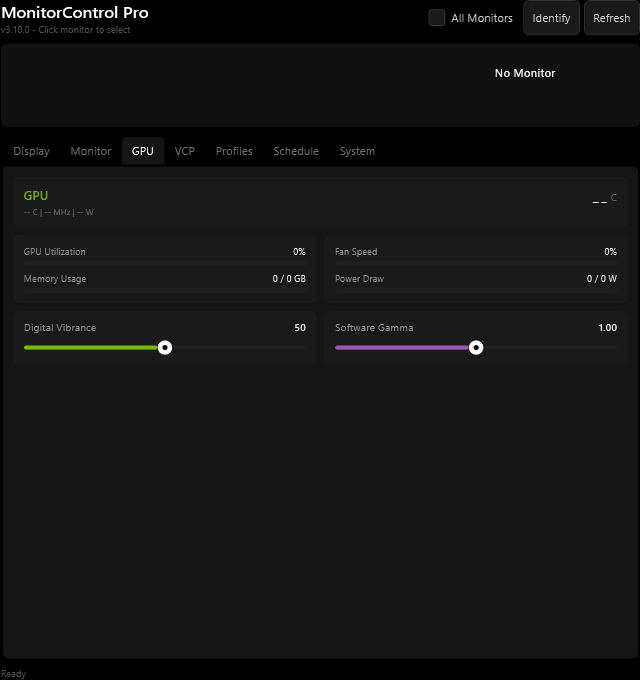
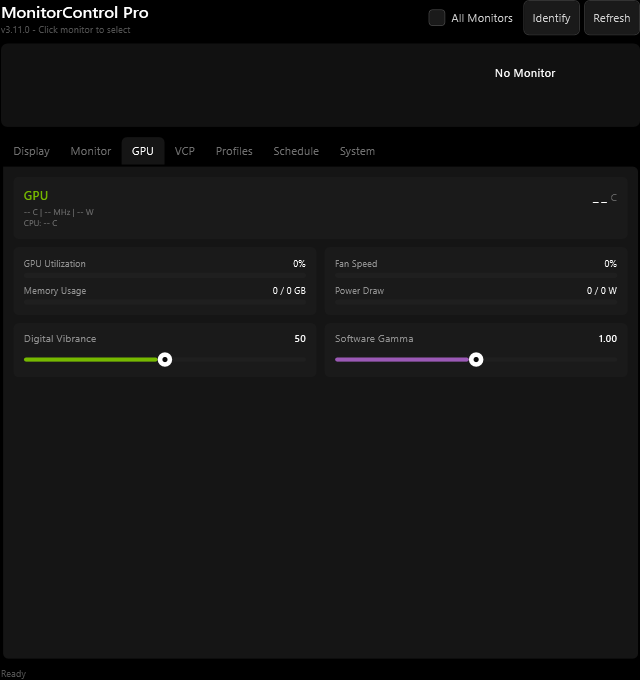
feat: add cpu temperature monitoring

diff --git a/README.md b/README.md
@@ -1,7 +1,7 @@
 # MonitorControl Pro
 
 <p align="center">
-  <img src="https://img.shields.io/badge/Version-v3.10.0-brightgreen" alt="Version v3.10.0">
+  <img src="https://img.shields.io/badge/Version-v3.11.0-brightgreen" alt="Version v3.11.0">
   <img src="https://img.shields.io/badge/PowerShell-5.1+-blue?logo=powershell" alt="PowerShell 5.1+">
   <img src="https://img.shields.io/badge/Windows-10%2F11-0078D6?logo=windows" alt="Windows 10/11">
   <img src="https://img.shields.io/badge/DDC%2FCI-Supported-green" alt="DDC/CI">
@@ -53,6 +53,7 @@ A comprehensive Windows GUI utility for controlling monitor settings via DDC/CI 
 - Power draw monitoring
 - Digital vibrance slider using NVAPI DVC where supported
 - AMD Radeon temperature, utilization, engine/memory clocks, and fan percent via ADL where supported by the installed driver
+- CPU package/core temperature via LibreHardwareMonitorLib or OpenHardwareMonitorLib when either library is installed or placed next to the script
 
 ## Requirements
 
@@ -60,6 +61,7 @@ A comprehensive Windows GUI utility for controlling monitor settings via DDC/CI 
 - **PowerShell 5.1+** (included with Windows)
 - **DDC/CI Compatible Monitor** — Most modern monitors support this; ensure it's enabled in your monitor's OSD settings
 - **NVIDIA or AMD GPU** (optional) — For GPU monitoring tab
+- **LibreHardwareMonitorLib.dll or OpenHardwareMonitorLib.dll** (optional) — For CPU temperature on the hardware tab
 
 ## Installation
 

diff --git a/ROADMAP.md b/ROADMAP.md
@@ -5,7 +5,6 @@ PowerShell/WPF utility for DDC/CI monitor control â€” brightness, contrast,
 ## Planned Features
 
 ### GPU Monitoring
-- CPU temperature via LibreHardwareMonitor/OpenHardwareMonitor lib
 - Per-GPU FPS overlay (PresentMon integration)
 
 ### Laptop Support
